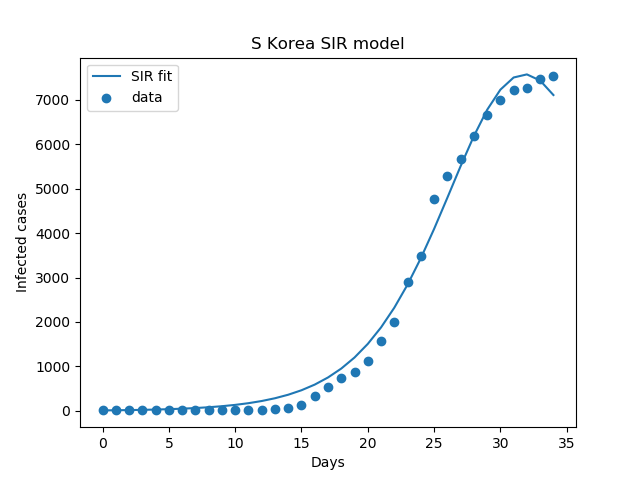
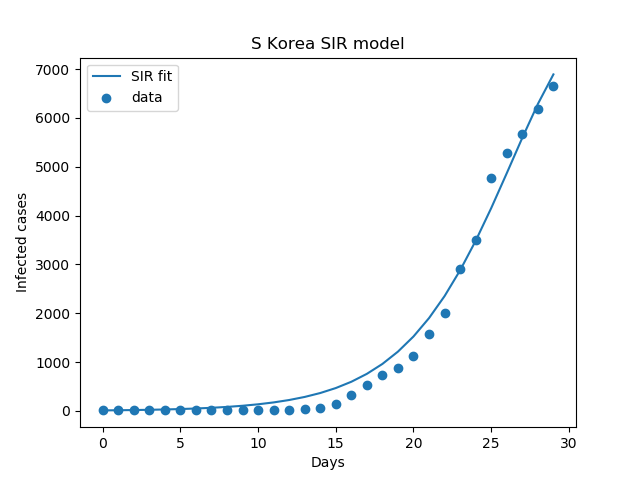
Exclude rural population

diff --git a/UK/uk_prediction.py b/UK/uk_prediction.py
@@ -6,9 +6,10 @@ from numba import njit
 
 data = np.loadtxt("uk.txt")
 
+
 def SIR(t, beta, gamma):
     # Total population, N.
-    N = 600000 # UK approx. 6x Wuhan population
+    N = 500000  # UK city approx. 5x Wuhan population
     # Initial number of infected and recovered individuals, I0 and R0.
     I0, R0 = 9, 0
     # Everyone else, S0, is susceptible to infection initially.
@@ -32,15 +33,15 @@ def SIR(t, beta, gamma):
 
 
 day = np.arange(0, len(data), 1)
-days = np.arange(0, len(data)+20,1)
+days = np.arange(0, len(data)+20, 1)
 
-wuhan = [0.33838125, 0.06476182]
-s_korea = [1.43634329,1.18480972]
+wuhan = [0.33838125,0.06476182]
+s_korea = [1.29783287, 1.04570137]
 
 plt.figure(0)
-plt.scatter(day, np.log10(data),marker="x",c="r",label="Data")
-plt.plot(days, np.log10(SIR(days, *wuhan)),label="Wuhan model")
-plt.plot(days, np.log10(SIR(days, *s_korea)),label="S Korea model")
+plt.scatter(day, np.log10(data), marker="x", c="r", label="Data")
+plt.plot(days, np.log10(SIR(days, *wuhan)), label="Wuhan model")
+plt.plot(days, np.log10(SIR(days, *s_korea)), label="S Korea model")
 plt.legend()
 plt.title("UK Prediction")
 plt.xlabel("Days")

diff --git a/South_Korea/s_korea_analysis.py b/South_Korea/s_korea_analysis.py
@@ -6,13 +6,13 @@ from numba import njit
 
 data = np.loadtxt("s_korea.txt")
 
-data = data[5:40]
+data = data[5:35]
 
 days = np.arange(0, len(data), 1)
 
 def SIR(t, beta, gamma):
     # Total population, N.
-    N = 100000 * 51/11  # S Korea has 51m population, wuhan has 11m
+    N = 100000 * 42/11  # S Korea has 51m population, wuhan has 11m
     # Initial number of infected and recovered individuals, I0 and R0.
     I0, R0 = data[0], 0
     # Everyone else, S0, is susceptible to infection initially.

diff --git a/Italy/italy_prediction.py b/Italy/italy_prediction.py
@@ -8,7 +8,7 @@ data = np.loadtxt("italy.txt")
 
 def SIR(t, beta, gamma):
     # Total population, N.
-    N = 100000 * 60 /11 # Italy approx. 60m population, wuhan is 11m
+    N = 100000 * 43 /11 # Italy approx. 60m population, wuhan is 11m
     # Initial number of infected and recovered individuals, I0 and R0.
     I0, R0 = data[0], 0
     # Everyone else, S0, is susceptible to infection initially.
